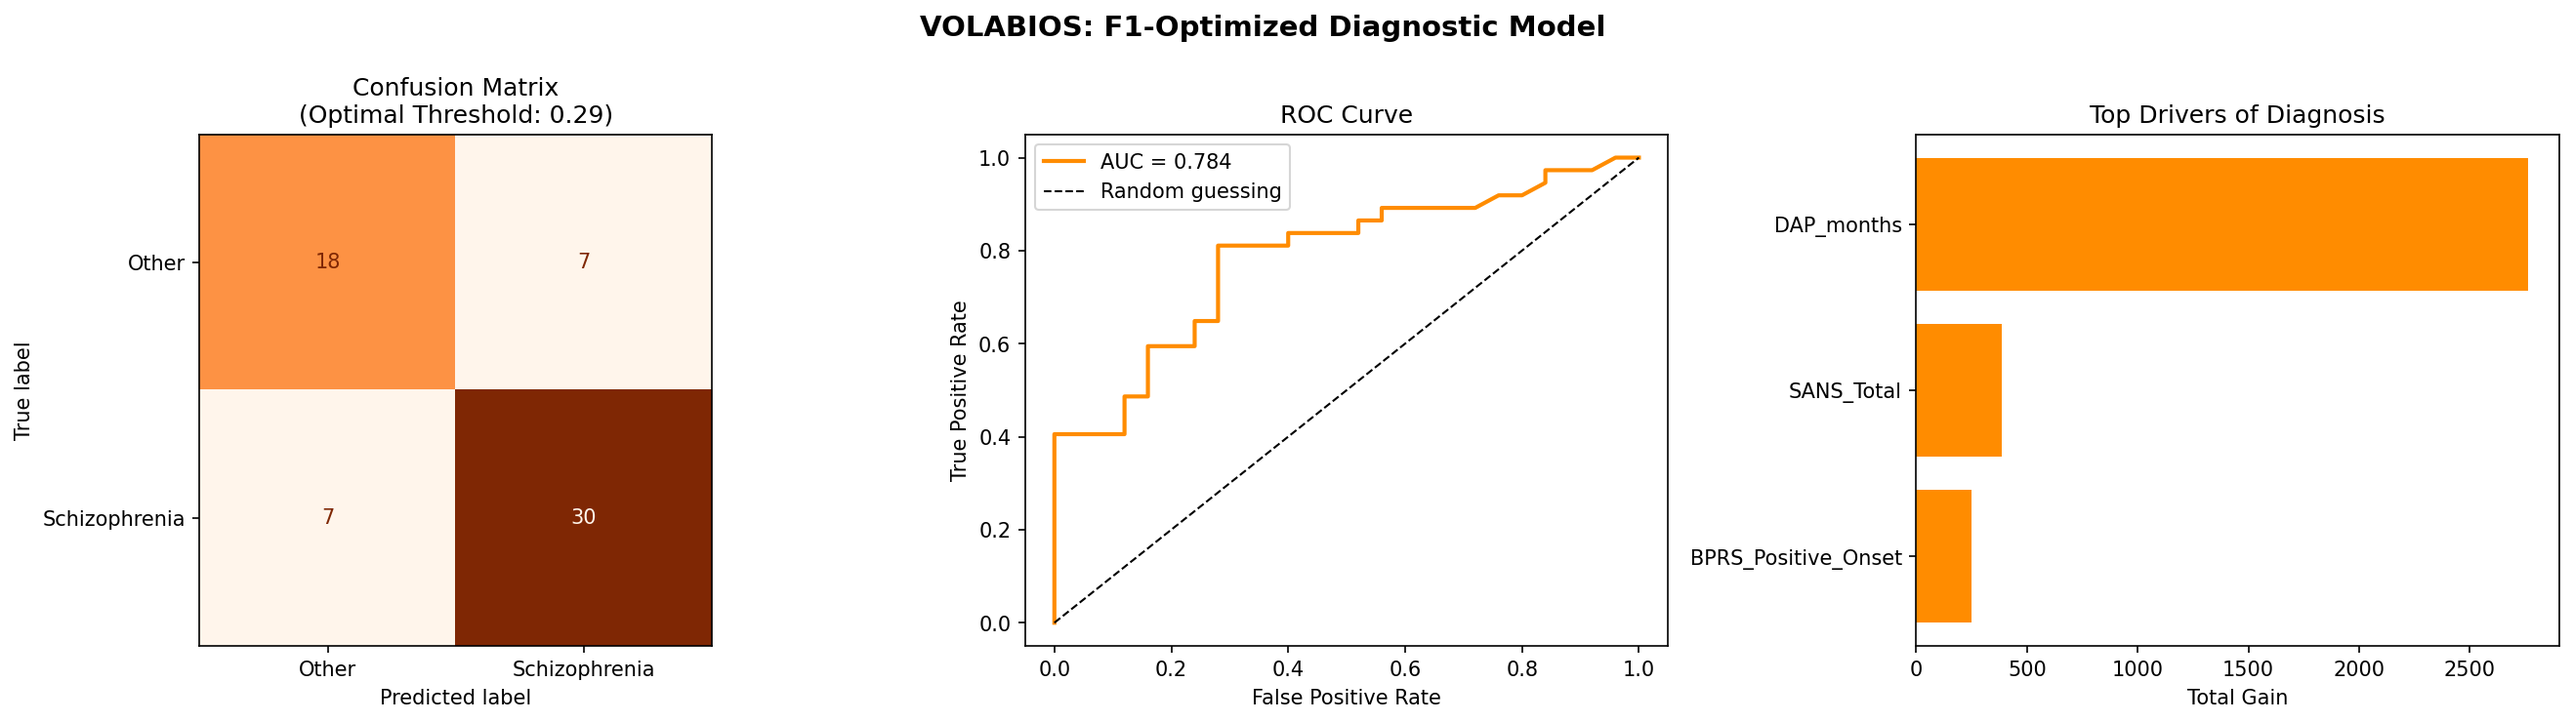
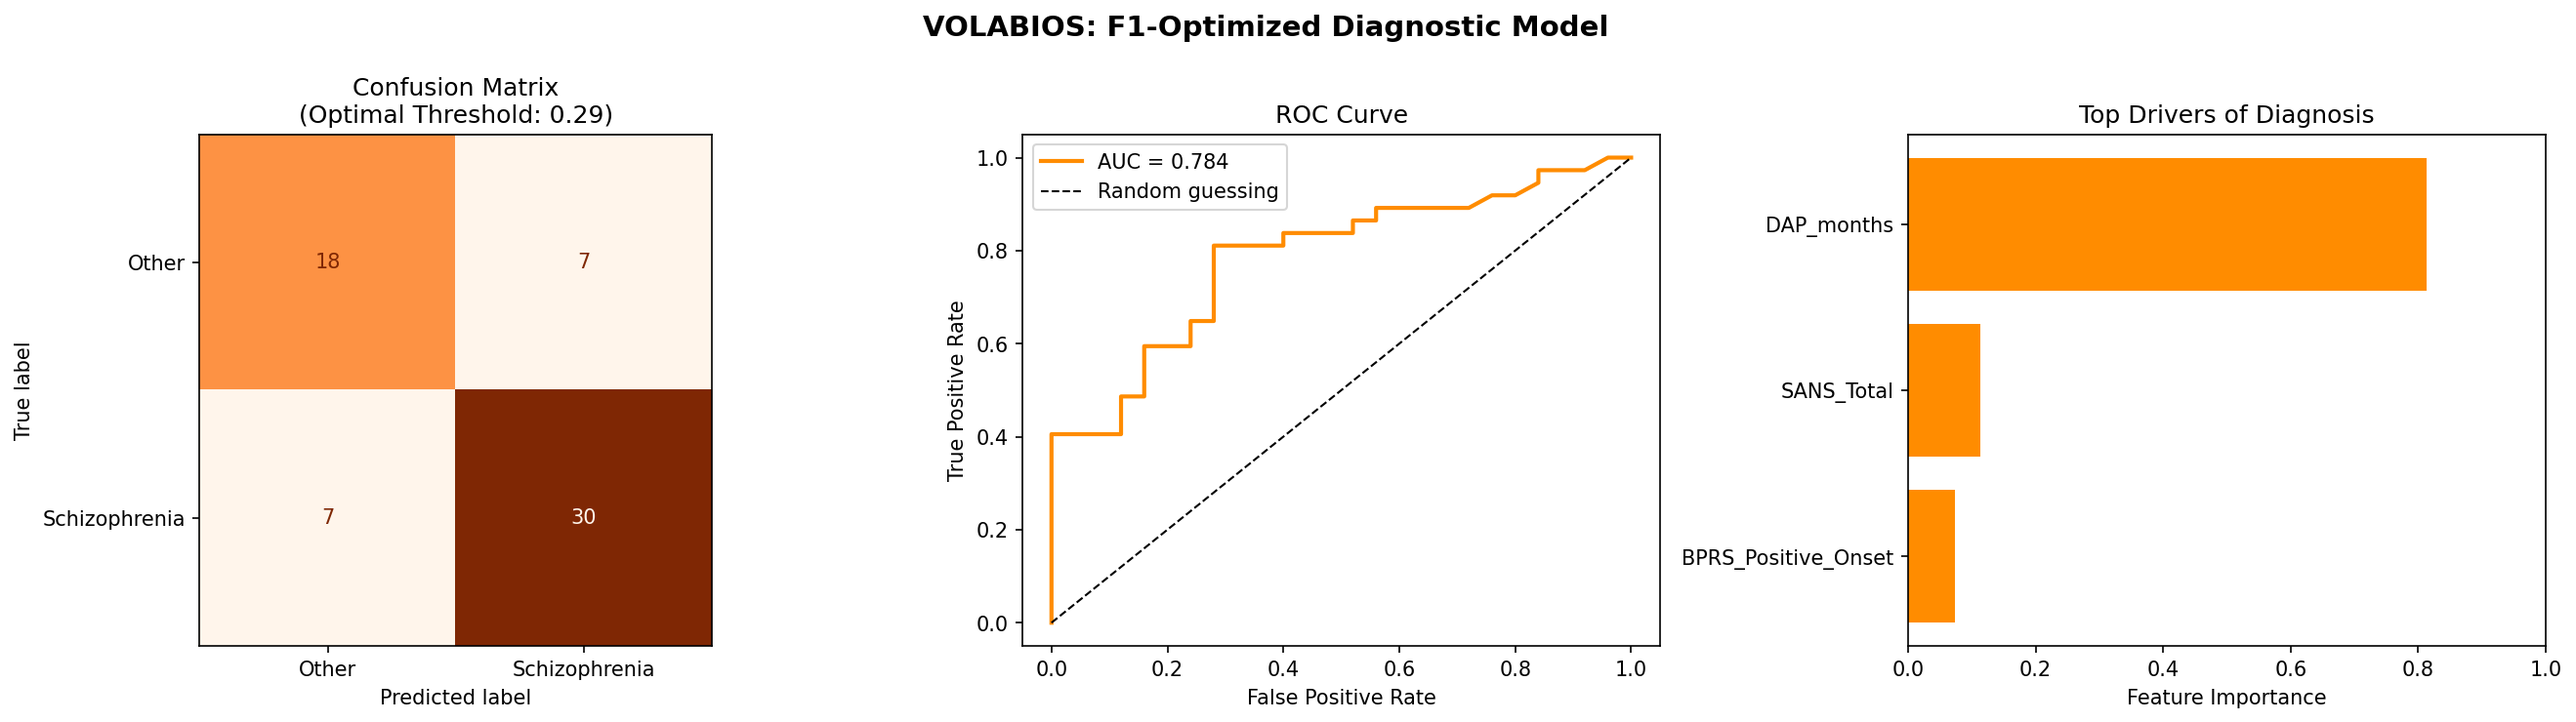
Small model improvements

diff --git a/scripts/models/diagnosis/xgboost_diagnosis.py b/scripts/models/diagnosis/xgboost_diagnosis.py
@@ -4,12 +4,11 @@ import matplotlib.pyplot as plt
 import xgboost as xgb
 import shap
 import warnings
-from sklearn.model_selection import StratifiedKFold, train_test_split, GridSearchCV
+from sklearn.model_selection import StratifiedKFold, train_test_split
 from sklearn.preprocessing import StandardScaler
 from sklearn.pipeline import Pipeline
 from sklearn.feature_selection import RFECV
 from sklearn.metrics import roc_auc_score, roc_curve, confusion_matrix, ConfusionMatrixDisplay, f1_score
-
 
 warnings.filterwarnings("ignore", category=UserWarning)
 
@@ -55,7 +54,6 @@ X_train, X_test, y_train, y_test = train_test_split(
 scaler = StandardScaler()
 X_train_scaled = scaler.fit_transform(X_train)
 
-
 scale_weight = (len(y_train) - y_train.sum()) / y_train.sum()
 
 xgb_core = xgb.XGBClassifier(
@@ -80,51 +78,27 @@ rfecv.fit(X_train_scaled, y_train)
 selected_features = X.columns[rfecv.support_]
 optimal_num_features = rfecv.n_features_
 
-plt.figure(figsize=(10, 6))
-plt.title('Recursive Feature Elimination (RFECV) - XGBoost', fontsize=14, fontweight='bold')
-plt.xlabel('Number of Selected Features')
-plt.ylabel('Cross-Validated ROC-AUC')
-cv_scores = rfecv.cv_results_['mean_test_score']
-plt.plot(range(3, len(cv_scores) + 3), cv_scores, marker='o', color='darkorange', lw=2)
-plt.axvline(x=optimal_num_features, color='red', linestyle='--', label=f'Optimal: {optimal_num_features} Features')
-plt.legend()
-plt.grid(True, linestyle='--', alpha=0.7)
-plt.tight_layout()
-plt.savefig('outputs/rfecv_plot_xgboost.png', dpi=150)
-plt.close()
-
 X_train_optimal = X_train[selected_features]
 X_test_optimal = X_test[selected_features]
 
+# --- ΑΠΛΟΠΟΙΗΜΕΝΟ PIPELINE ΧΩΡΙΣ GRID SEARCH ---
 pipeline = Pipeline([
     ('scaler', StandardScaler()),
     ('clf', xgb.XGBClassifier(
         scale_pos_weight=scale_weight, 
         random_state=10, 
         n_jobs=-1, 
-        eval_metric='logloss'
+        eval_metric='logloss',
+        n_estimators=150,       # Οι δικές σου σταθερές παράμετροι μπαίνουν απευθείας εδώ
+        learning_rate=0.01,
+        max_depth=2
     ))
 ])
 
-cv = StratifiedKFold(n_splits=5, shuffle=True, random_state=10)
-param_grid = {
-    'clf__n_estimators': [150],
-    'clf__learning_rate': [0.01],
-    'clf__max_depth': [2]
-}
+# Απευθείας εκπαίδευση του Pipeline
+pipeline.fit(X_train_optimal, y_train)
 
-grid_search = GridSearchCV(
-    pipeline, 
-    param_grid, 
-    cv=cv, 
-    scoring='roc_auc', 
-    n_jobs=-1
-)
-
-grid_search.fit(X_train_optimal, y_train)
-best_pipeline = grid_search.best_estimator_
-
-y_prob = best_pipeline.predict_proba(X_test_optimal)[:, 1]
+y_prob = pipeline.predict_proba(X_test_optimal)[:, 1]
 auc_score = roc_auc_score(y_test, y_prob)
 
 thresholds = np.linspace(0.05, 0.95, 100) 
@@ -156,7 +130,7 @@ axes[1].set_ylabel('True Positive Rate')
 axes[1].set_title('ROC Curve')
 axes[1].legend()
 
-importances = best_pipeline.named_steps['clf'].feature_importances_
+importances = pipeline.named_steps['clf'].feature_importances_
 importance_df = pd.DataFrame({'feature': X_train_optimal.columns, 'importance': importances})
 importance_df = importance_df[importance_df['importance'] > 0].sort_values('importance', ascending=False)
 
@@ -171,14 +145,14 @@ plt.close()
 
 summary = {
     'Algorithm': 'XGBoost (Schizophrenia vs. Other)',
-    'Best Parameters': str({k.replace('clf__', ''): v for k, v in grid_search.best_params_.items()}),
+    'Best Parameters': "{'learning_rate': 0.01, 'max_depth': 2, 'n_estimators': 150}",
     'Test ROC-AUC': f"{auc_score:.3f}",
     'Test F1 (Macro Avg)': f"{best_macro_f1:.3f}" 
 }
 pd.DataFrame([summary]).to_csv('outputs/summary_xgboost_diagnosis.csv', index=False)
 
-xgb_model = best_pipeline.named_steps['clf']
-model_scaler = best_pipeline.named_steps['scaler']
+xgb_model = pipeline.named_steps['clf']
+model_scaler = pipeline.named_steps['scaler']
 
 X_test_scaled = model_scaler.transform(X_test_optimal)
 X_test_scaled_df = pd.DataFrame(X_test_scaled, columns=X_test_optimal.columns)
@@ -186,10 +160,8 @@ X_test_scaled_df = pd.DataFrame(X_test_scaled, columns=X_test_optimal.columns)
 explainer = shap.TreeExplainer(xgb_model)
 shap_values = explainer.shap_values(X_test_scaled_df)
 
-# To XGBoost επιστρέφει πάντα τον πίνακα κατευθείαν
 shap_values_pos = shap_values
 
-# Αν το expected_value έρθει ως array/list, παίρνουμε το 1ο στοιχείο
 base_value = explainer.expected_value
 if isinstance(base_value, (np.ndarray, list)):
     base_value = base_value[0]

diff --git a/scripts/models/diagnosis/lightgbm_diagnosis.py b/scripts/models/diagnosis/lightgbm_diagnosis.py
@@ -4,7 +4,7 @@ import matplotlib.pyplot as plt
 import lightgbm as lgb
 import shap
 import warnings
-from sklearn.model_selection import StratifiedKFold, train_test_split, GridSearchCV
+from sklearn.model_selection import StratifiedKFold, train_test_split
 from sklearn.preprocessing import StandardScaler
 from sklearn.pipeline import Pipeline
 from sklearn.feature_selection import RFECV
@@ -85,29 +85,24 @@ plt.close()
 X_train_optimal = X_train[selected_features]
 X_test_optimal = X_test[selected_features]
 
+# --- ΑΠΛΟΠΟΙΗΜΕΝΟ PIPELINE ΧΩΡΙΣ GRID SEARCH ---
 pipeline = Pipeline([
     ('scaler', StandardScaler()),
-    ('clf', lgb.LGBMClassifier(class_weight='balanced', random_state=10, n_jobs=-1, verbose=-1))
+    ('clf', lgb.LGBMClassifier(
+        class_weight='balanced', 
+        random_state=10, 
+        n_jobs=-1, 
+        verbose=-1,
+        n_estimators=150,        # Οι δικές σου σταθερές παράμετροι
+        learning_rate=0.02,
+        max_depth=3
+    ))
 ])
 
-cv = StratifiedKFold(n_splits=5, shuffle=True, random_state=10)
-param_grid = {
-    'clf__n_estimators': [150],
-    'clf__learning_rate': [0.02],
-    'clf__max_depth': [3]
-}
+# Απευθείας εκπαίδευση του Pipeline
+pipeline.fit(X_train_optimal, y_train)
 
-grid_search = GridSearchCV(
-    pipeline, 
-    param_grid, 
-    cv=cv, 
-    scoring='roc_auc', 
-    n_jobs=-1
-)
-grid_search.fit(X_train_optimal, y_train)
-best_pipeline = grid_search.best_estimator_
-
-y_prob = best_pipeline.predict_proba(X_test_optimal)[:, 1]
+y_prob = pipeline.predict_proba(X_test_optimal)[:, 1]
 auc_score = roc_auc_score(y_test, y_prob)
 
 thresholds = np.linspace(0.05, 0.95, 100) 
@@ -139,13 +134,15 @@ axes[1].set_ylabel('True Positive Rate')
 axes[1].set_title('ROC Curve')
 axes[1].legend()
 
-importances = best_pipeline.named_steps['clf'].booster_.feature_importance(importance_type='gain')
-importance_df = pd.DataFrame({'feature': X_train_optimal.columns, 'importance': importances})
+raw_importances = pipeline.named_steps['clf'].booster_.feature_importance(importance_type='gain')
+relative_importances = raw_importances / raw_importances.sum()
+importance_df = pd.DataFrame({'feature': X_train_optimal.columns, 'importance': relative_importances})
 importance_df = importance_df[importance_df['importance'] > 0].sort_values('importance', ascending=False).head(7)
 
 axes[2].barh(importance_df['feature'], importance_df['importance'], color='darkorange')
 axes[2].set_title('Top Drivers of Diagnosis')
-axes[2].set_xlabel('Total Gain')
+axes[2].set_xlabel('Relative Feature Importance') 
+axes[2].set_xlim(0, 1.0)
 axes[2].invert_yaxis()
 
 plt.tight_layout()
@@ -154,14 +151,14 @@ plt.close()
 
 summary = {
     'Algorithm': 'LightGBM (Schizophrenia vs. Other)',
-    'Best Parameters': str({k.replace('clf__', ''): v for k, v in grid_search.best_params_.items()}),
+    'Best Parameters': "{'learning_rate': 0.02, 'max_depth': 3, 'n_estimators': 150}",
     'Test ROC-AUC': f"{auc_score:.3f}",
     'Test F1 (Macro Avg)': f"{best_macro_f1:.3f}" 
 }
 pd.DataFrame([summary]).to_csv('outputs/summary_lightgbm_diagnosis.csv', index=False)
 
-lgbm_model = best_pipeline.named_steps['clf']
-model_scaler = best_pipeline.named_steps['scaler']
+lgbm_model = pipeline.named_steps['clf']
+model_scaler = pipeline.named_steps['scaler']
 
 X_test_scaled = model_scaler.transform(X_test_optimal)
 X_test_scaled_df = pd.DataFrame(X_test_scaled, columns=X_test_optimal.columns)
